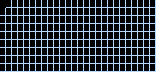
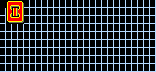
add title screen

Changed region(s): [[0.0256, 0.0, 0.1538, 0.3333]]

diff --git a/titlescreen.c b/titlescreen.c
@@ -1,0 +1,106 @@
+/*
+ * hasischnucki - a match-three game for uzebox
+ *
+ * Copyright (C) 2024 by  Christian Garbs <mitch@cgarbs.de>
+ * licensed under the GNU GPL v3 or later
+ *
+ * see https://github.com/mmitch/uzepede
+ *
+ */
+
+#include "globals.h"
+
+typedef struct {
+	const Scalar x;
+	const Scalar y;
+	const Tile  *tile;
+} map;
+
+// FIXME: why does the iterative access not work with PROGMEM, neither indexed nor pointered?
+// TODO: redraw t-tiles on a second pass? first pass only corner/straight?
+const map LOGO[]  = {
+	{  0, 0, border_v  }, // H
+	{  0, 1, border_v  },
+	{  0, 2, border_v  },
+	{  2, 1, border_v  },
+	{  2, 0, border_v  },
+	{  2, 2, border_v  },
+	{  0, 1, border_vr },
+	{  1, 1, border_h  },
+	{  2, 1, border_vl },
+	{  4, 2, border_v  }, // A
+	{  4, 1, border_v  },
+	{  4, 0, border_tl },
+	{  5, 0, border_h  },
+	{  6, 0, border_tr },
+	{  6, 1, border_v  },
+	{  6, 2, border_v  },
+	{  4, 1, border_vr },
+	{  5, 1, border_h  },
+	{  6, 1, border_vl },
+	{ 11, 0, border_h  }, // S
+	{ 10, 0, border_h  },
+	{  9, 0, border_h  },
+	{  8, 0, border_tl },
+	{  8, 1, border_bl },
+	{  9, 1, border_h  },
+	{ 10, 1, border_h  },
+	{ 11, 1, border_tr },
+	{ 11, 2, border_br },
+	{ 10, 2, border_h  },
+	{  9, 2, border_h  },
+	{  8, 2, border_h  },
+	{ 13, 0, border_v  }, // I
+	{ 13, 1, border_v  },
+	{ 13, 2, border_v  },
+	
+	{  1, 5, border_h  }, // S
+	{  0, 5, border_tl },
+	{  0, 6, border_bl },
+	{  1, 6, border_tr },
+	{  1, 7, border_br },
+	{  0, 7, border_h  },
+	{  3, 5, border_h  }, // C
+	{  2, 5, border_tl },
+	{  2, 6, border_v  },
+	{  2, 7, border_bl },
+	{  3, 7, border_h  },
+	{  4, 7, border_v  }, // H
+	{  4, 6, border_vr },
+	{  4, 5, border_v  },
+	{  5, 5, border_v  },
+	{  5, 6, border_vl },
+	{  5, 7, border_v  },
+	{  6, 7, border_v  }, // N
+	{  6, 6, border_v  },
+	{  6, 5, border_tl },
+	{  7, 5, border_tr },
+	{  7, 6, border_v  },
+	{  7, 7, border_bl },
+	{  8, 7, border_br },
+	{  8, 6, border_v  },
+	{  8, 5, border_v  },
+	{ 10, 5, border_h  }, // C
+	{  9, 5, border_tl },
+	{  9, 6, border_v  },
+	{  9, 7, border_bl },
+	{ 10, 7, border_h  },
+	{ 11, 5, border_v  }, // K
+	{ 11, 6, border_v  },
+	{ 11, 7, border_v  },
+	{ 11, 6, border_vr },
+	{ 12, 6, border_br },
+	{ 12, 5, border_v  },
+	{ 12, 7, border_v  },
+	{ 13, 5, border_v  }, // I
+	{ 13, 6, border_v  },
+	{ 13, 7, border_v  },
+	{  0, 0, NULL },
+};
+
+static void drawTitleScreen() {
+	for (const map* draw = LOGO; draw->tile; draw++) {
+		WaitVsync(2);
+		DrawMap( 13 + draw->x, 9 + draw->y, draw->tile );
+	}
+}

diff --git a/hasischnucki.c b/hasischnucki.c
@@ -8,21 +8,20 @@
  *
  */
 
-#include <avr/io.h>
-#include <stdlib.h>
-#include <avr/pgmspace.h>
-#include <uzebox.h>
-#include <math.h>
-#include <stdio.h>
-
-#include "data/tiles.inc"
-#include "data/patches.inc"
+// directly including .c files - yuck :)
+// This will allow for proper code separation,
+// but won't give is incremental builds.
+// But this bit of code will compile fast anyway.
+#include "titlescreen.c"
 
 int main(){
 
-  SetTileTable(Tiles);
-  InitMusicPlayer(patches);
+	SetTileTable(Tiles);
+	InitMusicPlayer(patches);
+	Fill(0, 0, 40, 28, 0);
 
-  while(1);
+	drawTitleScreen();
+
+	while(1);
 
 }

diff --git a/globals.h b/globals.h
@@ -1,0 +1,30 @@
+/*
+ * hasischnucki - a match-three game for uzebox
+ *
+ * Copyright (C) 2024 by  Christian Garbs <mitch@cgarbs.de>
+ * licensed under the GNU GPL v3 or later
+ *
+ * see https://github.com/mmitch/uzepede
+ *
+ */
+
+#ifndef _GLOBALS_H_
+#define _GLOBALS_H_
+
+#include <avr/io.h>
+#include <stdlib.h>
+#include <avr/pgmspace.h>
+#include <uzebox.h>
+#include <math.h>
+#include <stdio.h>
+
+#include "data/tiles.inc"
+#include "data/patches.inc"
+
+typedef u8  Scalar;
+typedef u8  Boolean;
+typedef int Tile;
+typedef u16 Joypad;
+typedef unsigned int BigScalar;
+
+#endif
